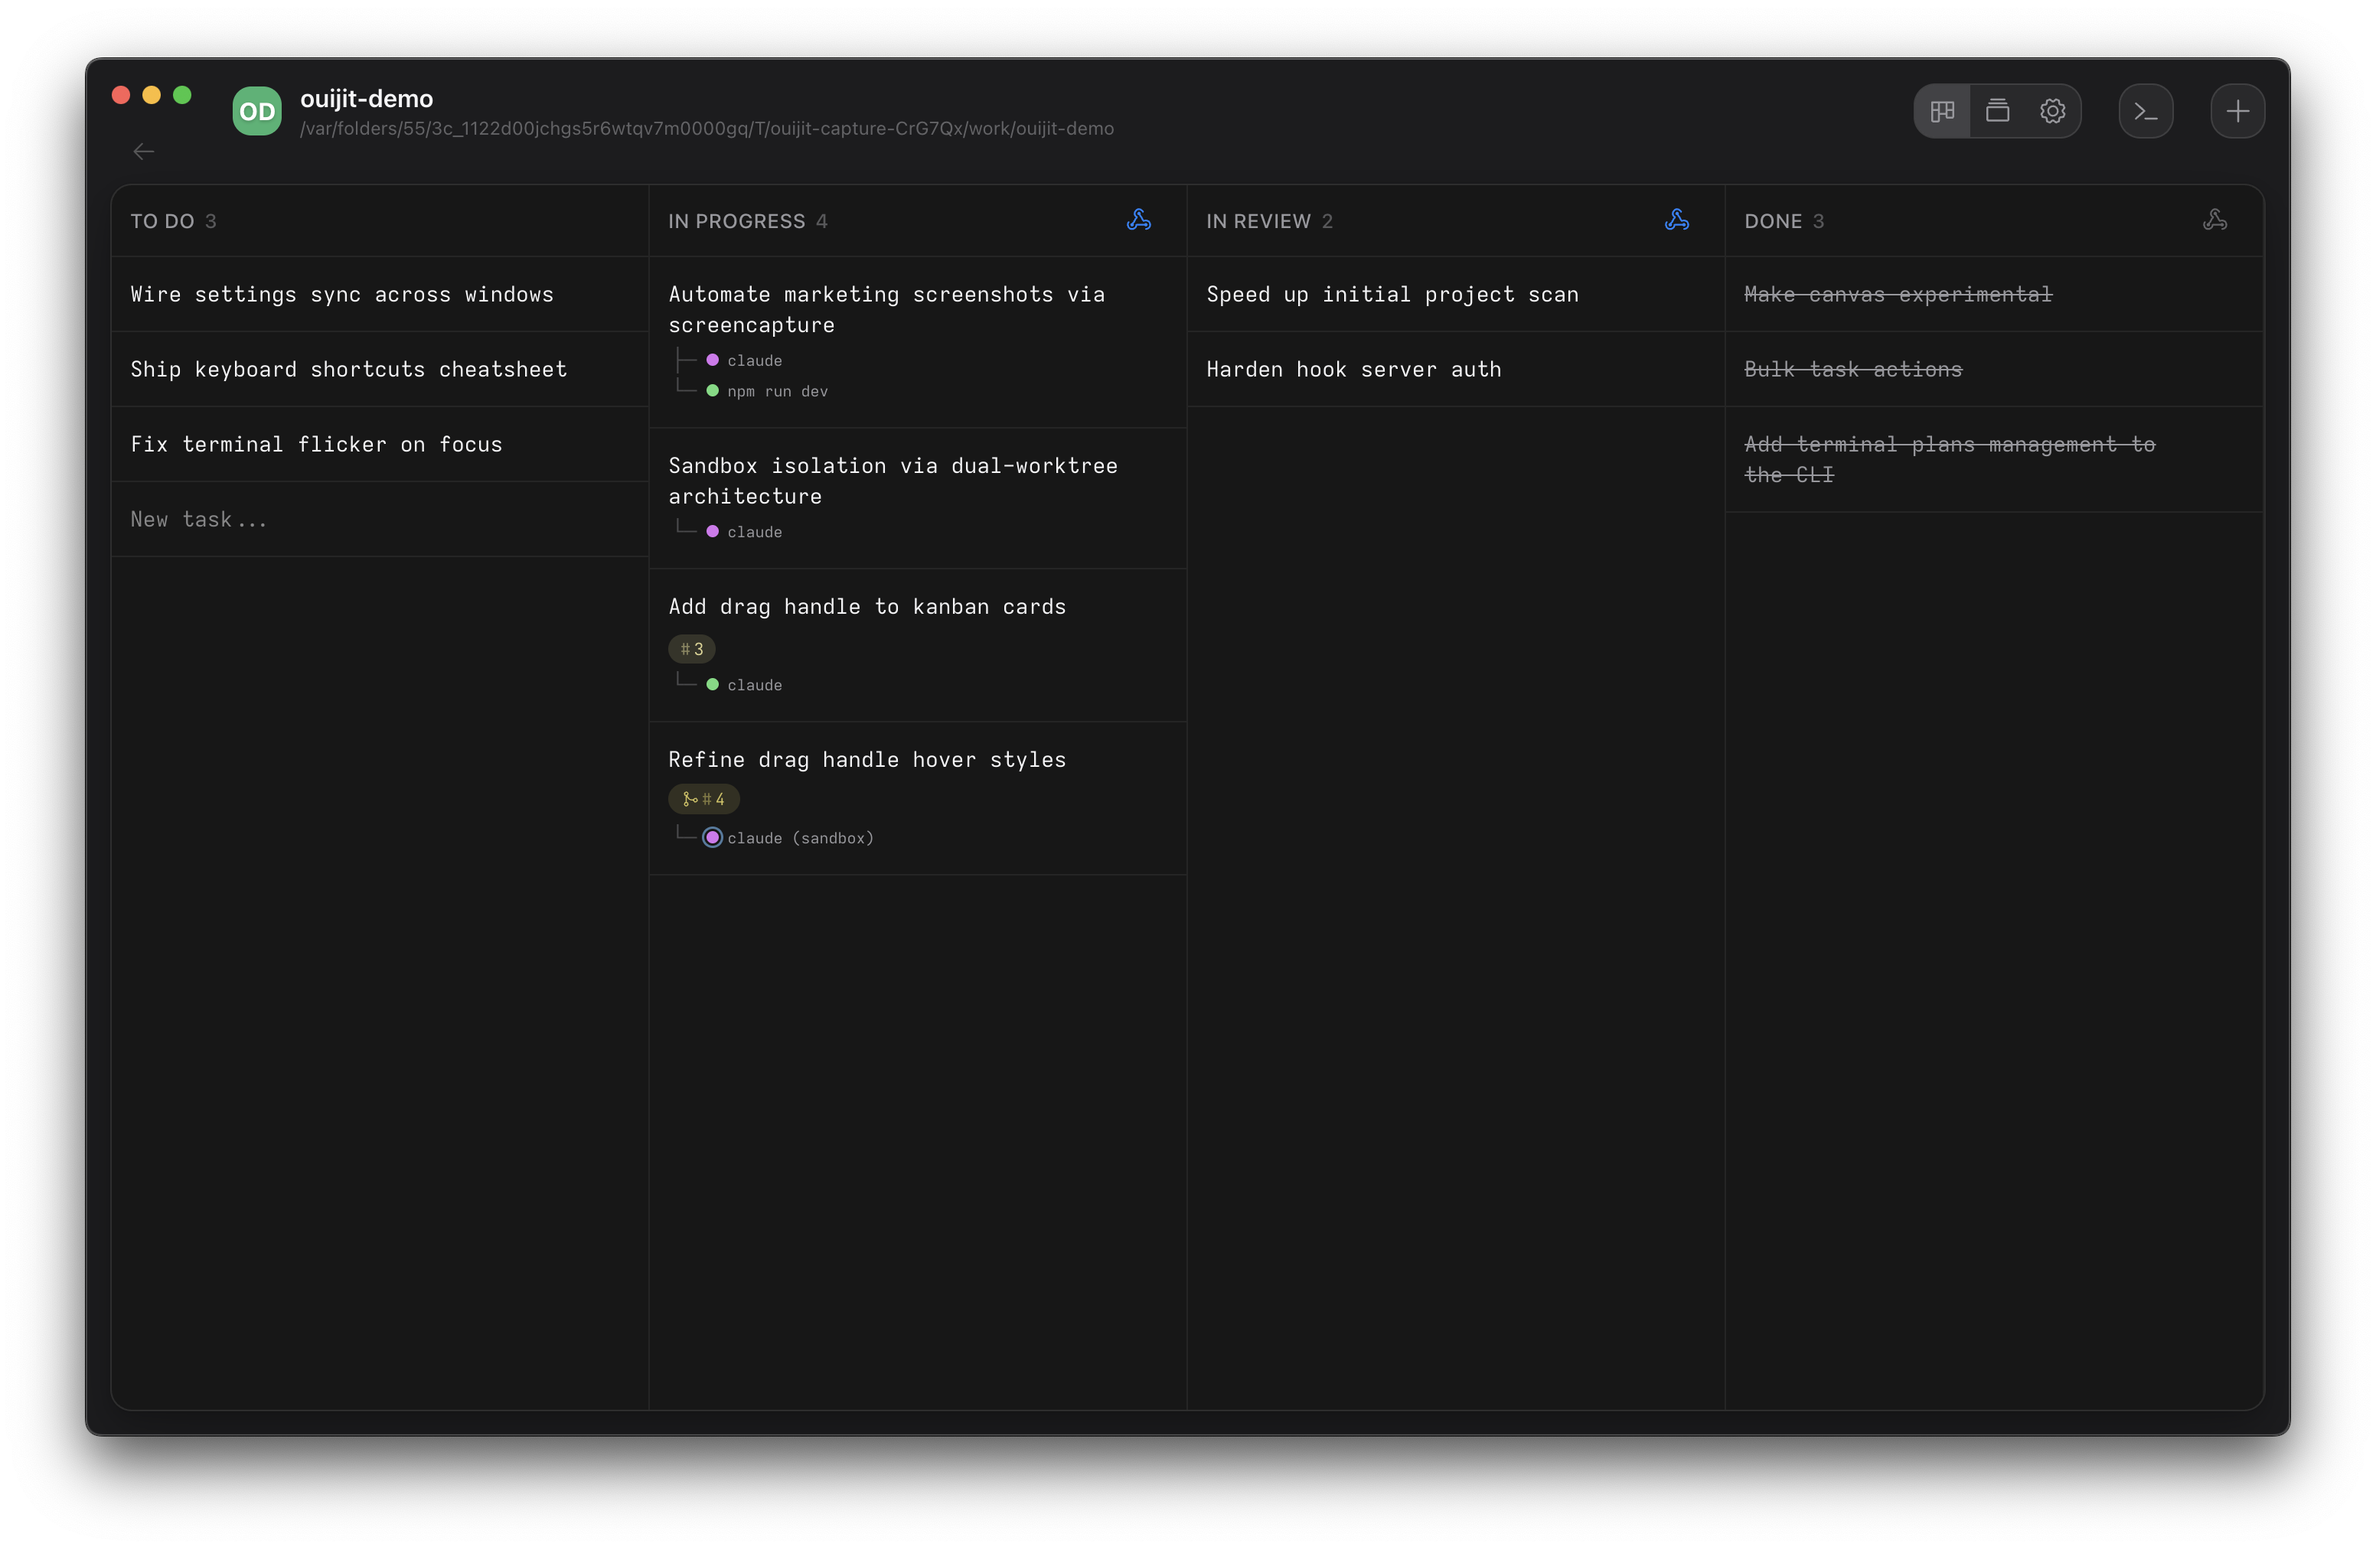
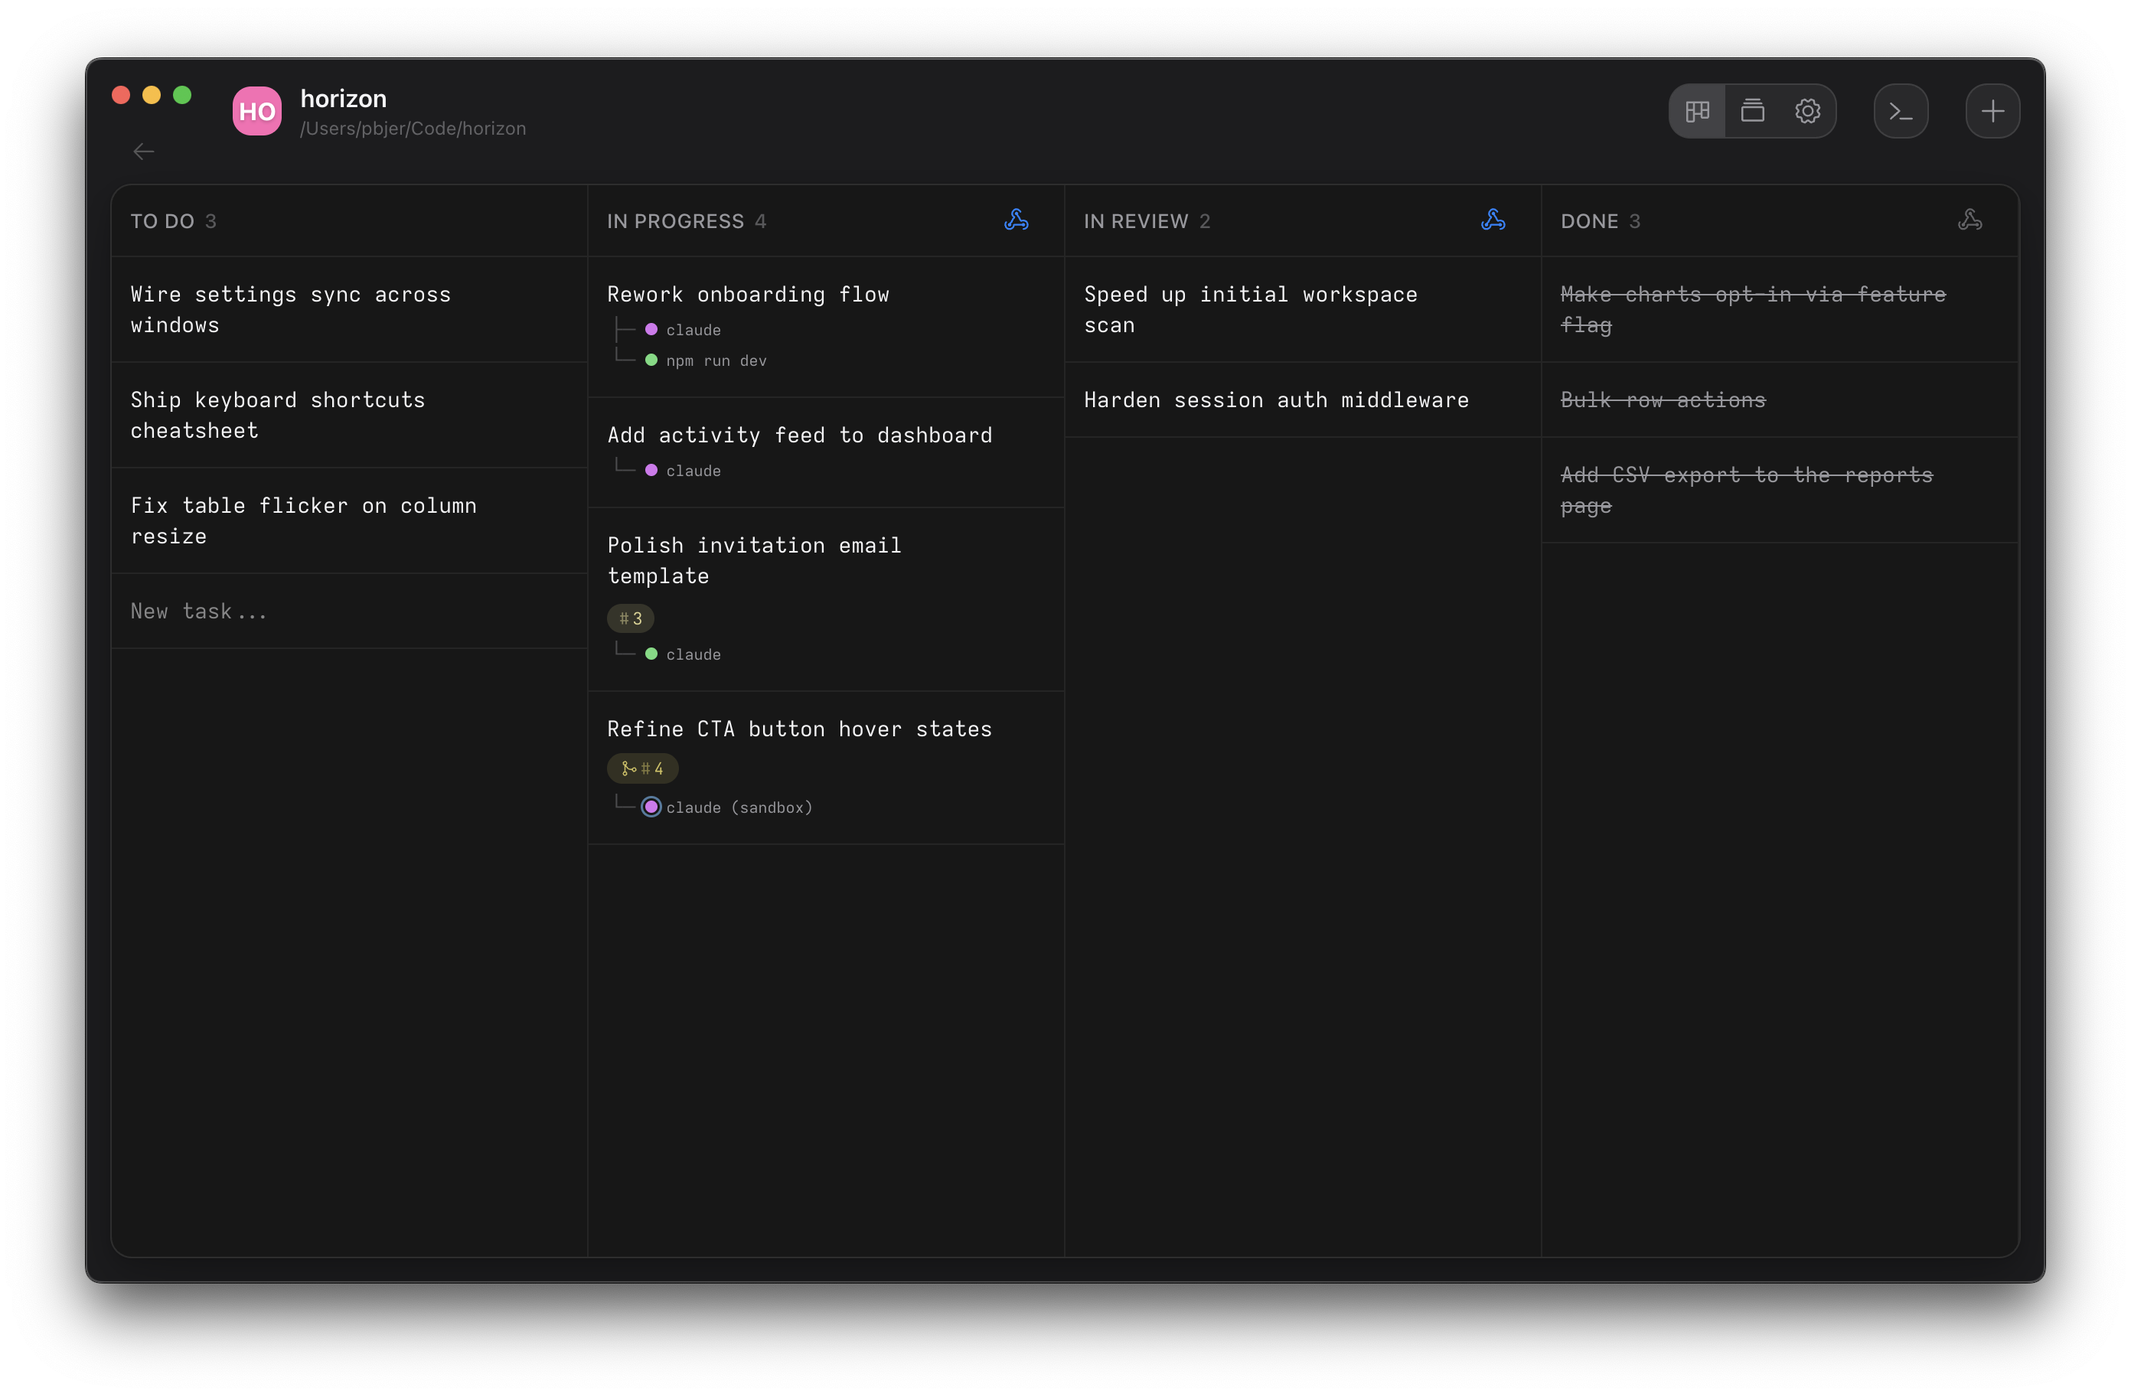
Rebrand capture fixture as 'horizon' under ~/Code, drop home scene, shrink window to 1280x800

diff --git a/src/capture/fixture.ts b/src/capture/fixture.ts
@@ -23,6 +23,11 @@ export interface CaptureFixtureResult {
   projectName: string;
 }
 
+export interface CaptureFixtureOptions {
+  projectPath: string;
+  projectName: string;
+}
+
 interface TaskSeed {
   name: string;
   status: 'todo' | 'in_progress' | 'in_review' | 'done';
@@ -35,92 +40,94 @@ interface TaskSeed {
 
 const TASK_SEEDS: TaskSeed[] = [
   {
-    name: 'Automate marketing screenshots via screencapture',
+    name: 'Rework onboarding flow',
     status: 'in_progress',
-    prompt: 'One command regenerates README + website imagery from a deterministic Ouijit state.',
-    branch: 'automate-marketing-screenshots-324',
+    prompt: 'Split the onboarding wizard into focused steps and persist progress.',
+    branch: 'rework-onboarding-flow-124',
     mergeTarget: 'main',
   },
   {
-    name: 'Sandbox isolation via dual-worktree architecture',
+    name: 'Add activity feed to dashboard',
     status: 'in_progress',
-    prompt: 'Replace in-guest bind-mount overlay with a host-side dual-worktree design.',
-    branch: 'sandbox-dual-worktree-320',
+    prompt: 'Stream recent events into a live activity feed on the dashboard.',
+    branch: 'dashboard-activity-feed-120',
     mergeTarget: 'main',
   },
   {
-    name: 'Add drag handle to kanban cards',
+    name: 'Polish invitation email template',
     status: 'in_progress',
-    prompt: 'Show a handle on hover so it is obvious cards are draggable.',
-    branch: 'kanban-drag-handle-325',
+    prompt: 'Tighten copy and add a clear CTA to the invitation email.',
+    branch: 'invite-email-polish-119',
     mergeTarget: 'main',
   },
   {
-    name: 'Refine drag handle hover styles',
+    name: 'Refine CTA button hover states',
     status: 'in_progress',
-    prompt: 'Child task of kanban drag handle — polish the hover affordance.',
-    branch: 'kanban-drag-handle-hover-326',
+    prompt: 'Child task of invitation polish — align hover states with the design tokens.',
+    branch: 'cta-hover-states-121',
     parentTaskNumber: 3,
-    mergeTarget: 'kanban-drag-handle-325',
+    mergeTarget: 'invite-email-polish-119',
     sandboxed: true,
   },
   {
     name: 'Wire settings sync across windows',
     status: 'todo',
-    prompt: 'Propagate project settings updates to all open Electron windows.',
+    prompt: 'Propagate user settings updates to all open tabs and windows.',
   },
   {
     name: 'Ship keyboard shortcuts cheatsheet',
     status: 'todo',
-    prompt: 'Press ? to open an overlay listing all project-mode shortcuts.',
+    prompt: 'Press ? to open an overlay listing all keyboard shortcuts.',
   },
   {
-    name: 'Fix terminal flicker on focus',
+    name: 'Fix table flicker on column resize',
     status: 'todo',
-    prompt: 'Switching tabs causes a 1-frame xterm re-render.',
+    prompt: 'Column resize causes a one-frame reflow in the data grid.',
   },
   {
-    name: 'Speed up initial project scan',
+    name: 'Speed up initial workspace scan',
     status: 'in_review',
-    prompt: 'Parallelize language detection across project directories.',
-    branch: 'speed-up-project-scan-318',
+    prompt: 'Parallelize workspace indexing on first load.',
+    branch: 'speed-up-workspace-scan-116',
   },
   {
-    name: 'Harden hook server auth',
+    name: 'Harden session auth middleware',
     status: 'in_review',
-    prompt: 'Per-PTY bearer tokens scoped to host vs sandbox.',
-    branch: 'harden-hook-auth-318',
+    prompt: 'Rotate session tokens on privilege change and scope them per origin.',
+    branch: 'harden-session-auth-115',
   },
   {
-    name: 'Make canvas experimental',
+    name: 'Make charts opt-in via feature flag',
     status: 'done',
-    prompt: 'Hide the canvas view behind a per-project experimental toggle.',
-    branch: 'canvas-experimental-313',
+    prompt: 'Hide the experimental charts panel behind a feature flag.',
+    branch: 'charts-feature-flag-110',
   },
   {
-    name: 'Bulk task actions',
+    name: 'Bulk row actions',
     status: 'done',
     prompt: 'Shift-click to select ranges, Cmd-click to toggle.',
-    branch: 'bulk-task-actions-306',
+    branch: 'bulk-row-actions-108',
   },
   {
-    name: 'Add terminal plans management to the CLI',
+    name: 'Add CSV export to the reports page',
     status: 'done',
-    prompt: 'Let scripts associate a plan file with a terminal via ouijit CLI.',
-    branch: 'terminal-plans-cli-304',
+    prompt: 'Export current report view as CSV with applied filters.',
+    branch: 'reports-csv-export-105',
   },
 ];
 
-export function seedCaptureFixture(db: Database.Database, tempRoot: string): CaptureFixtureResult {
-  const projectName = 'Ouijit Demo';
-  const projectPath = path.join(tempRoot, 'ouijit-demo');
-
-  // Build a real git repo so the project scanner + worktree listing don't choke.
+export function seedCaptureFixture(
+  db: Database.Database,
+  { projectPath, projectName }: CaptureFixtureOptions,
+): CaptureFixtureResult {
   fs.mkdirSync(projectPath, { recursive: true });
   try {
     execFileSync('git', ['init', '-q', '-b', 'main'], { cwd: projectPath });
-    fs.writeFileSync(path.join(projectPath, 'README.md'), '# Ouijit Demo\n\nDemo project for capture mode.\n');
-    fs.writeFileSync(path.join(projectPath, 'package.json'), '{\n  "name": "ouijit-demo",\n  "version": "1.0.0"\n}\n');
+    fs.writeFileSync(path.join(projectPath, 'README.md'), `# ${projectName}\n`);
+    fs.writeFileSync(
+      path.join(projectPath, 'package.json'),
+      `{\n  "name": "${projectName}",\n  "version": "1.0.0"\n}\n`,
+    );
     execFileSync('git', ['add', '.'], { cwd: projectPath });
     execFileSync(
       'git',
@@ -142,7 +149,9 @@ export function seedCaptureFixture(db: Database.Database, tempRoot: string): Cap
   for (let i = 0; i < TASK_SEEDS.length; i++) {
     const seed = TASK_SEEDS[i];
     const taskNumber = i + 1;
-    const worktreePath = seed.branch ? path.join(tempRoot, 'worktrees', `T-${taskNumber}`) : undefined;
+    const worktreePath = seed.branch
+      ? path.join(path.dirname(projectPath), `${projectName}-worktrees`, `T-${taskNumber}`)
+      : undefined;
     taskRepo.create(projectPath, taskNumber, seed.name, {
       status: seed.status,
       prompt: seed.prompt,

diff --git a/src/__tests__/captureFixture.test.ts b/src/__tests__/captureFixture.test.ts
@@ -24,14 +24,16 @@ describe('seedCaptureFixture', () => {
   test('seeds a project with tasks across all four columns', () => {
     const db = _initTestDatabase();
 
-    const result = seedCaptureFixture(db, tempRoot);
+    const projectPath = path.join(tempRoot, 'horizon');
+    const result = seedCaptureFixture(db, { projectPath, projectName: 'horizon' });
 
-    expect(result.projectPath).toBe(path.join(tempRoot, 'ouijit-demo'));
+    expect(result.projectPath).toBe(projectPath);
     expect(fs.existsSync(path.join(result.projectPath, '.git'))).toBe(true);
 
     const projects = new ProjectRepo(db).getAll();
     expect(projects).toHaveLength(1);
     expect(projects[0].path).toBe(result.projectPath);
+    expect(projects[0].name).toBe('horizon');
 
     const tasks = new TaskRepo(db).getAllForProject(result.projectPath);
     const statuses = new Set(tasks.map((t) => t.status));
@@ -42,15 +44,16 @@ describe('seedCaptureFixture', () => {
   test('seeds hooks and scripts', () => {
     const db = _initTestDatabase();
 
-    const { projectPath } = seedCaptureFixture(db, tempRoot);
+    const projectPath = path.join(tempRoot, 'horizon');
+    const { projectPath: seeded } = seedCaptureFixture(db, { projectPath, projectName: 'horizon' });
 
-    const hooks = new HookRepo(db).getForProject(projectPath);
+    const hooks = new HookRepo(db).getForProject(seeded);
     expect(hooks.length).toBeGreaterThanOrEqual(3);
     const hookTypes = new Set(hooks.map((h) => h.type));
     expect(hookTypes.has('start')).toBe(true);
     expect(hookTypes.has('run')).toBe(true);
 
-    const scripts = new ScriptRepo(db).getAll(projectPath);
+    const scripts = new ScriptRepo(db).getAll(seeded);
     expect(scripts.length).toBeGreaterThanOrEqual(3);
   });
 });

diff --git a/src/main.ts b/src/main.ts
@@ -236,13 +236,18 @@ app.on('ready', async () => {
     const token = getCaptureToken();
     if (token) registerStaticToken(token, 'capture-driver', 'host');
 
-    const tempRoot = process.env.OUIJIT_CAPTURE_TEMP_ROOT || app.getPath('userData');
-    try {
-      seedCaptureFixture(db, tempRoot);
-    } catch (err) {
-      appLog.error('capture fixture seed failed', {
-        error: err instanceof Error ? err.message : String(err),
-      });
+    const projectPath = process.env.OUIJIT_CAPTURE_PROJECT_PATH;
+    const projectName = process.env.OUIJIT_CAPTURE_PROJECT_NAME;
+    if (!projectPath || !projectName) {
+      appLog.error('capture fixture missing OUIJIT_CAPTURE_PROJECT_PATH/NAME');
+    } else {
+      try {
+        seedCaptureFixture(db, { projectPath, projectName });
+      } catch (err) {
+        appLog.error('capture fixture seed failed', {
+          error: err instanceof Error ? err.message : String(err),
+        });
+      }
     }
   }
 

diff --git a/src/capture/captureMode.ts b/src/capture/captureMode.ts
@@ -10,8 +10,8 @@
  * only registered when both env vars are present, and routes 404 otherwise.
  */
 
-export const CAPTURE_WINDOW_WIDTH = 1440;
-export const CAPTURE_WINDOW_HEIGHT = 900;
+export const CAPTURE_WINDOW_WIDTH = 1280;
+export const CAPTURE_WINDOW_HEIGHT = 800;
 export const CAPTURE_READY_SENTINEL = '__OUIJIT_READY__';
 
 export function isCaptureMode(): boolean {

diff --git a/src/capture/navigator.ts b/src/capture/navigator.ts
@@ -73,11 +73,6 @@ export function installCaptureNavigator(): void {
       }
     }
 
-    if (payload.scene === 'home') {
-      useAppStore.getState().navigateHome();
-      return;
-    }
-
     if (!payload.projectPath) {
       captureLog.warn('scene requires projectPath', { scene: payload.scene });
       return;

diff --git a/src/capture/types.ts b/src/capture/types.ts
@@ -1,6 +1,6 @@
 import type { TerminalDisplayState } from '../stores/terminalStore';
 
-export type CaptureScene = 'home' | 'kanban' | 'settings' | 'terminal-stack';
+export type CaptureScene = 'kanban' | 'settings' | 'terminal-stack';
 
 export interface CaptureTerminalSeed {
   ptyId: string;
